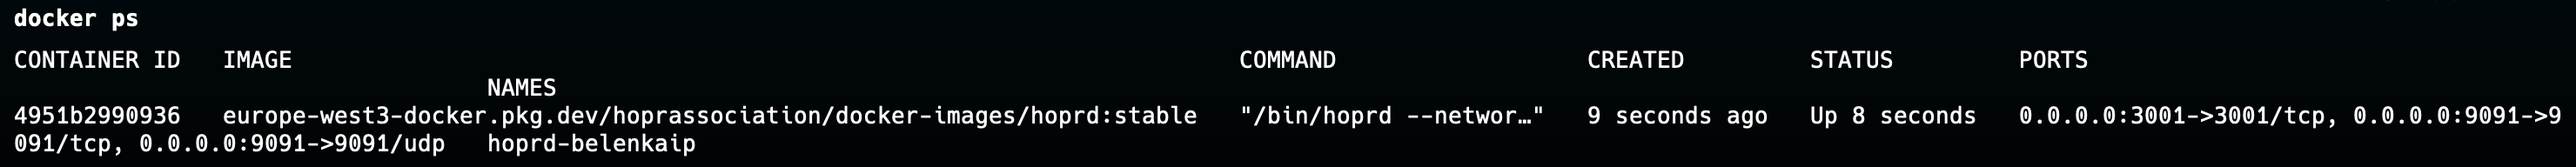
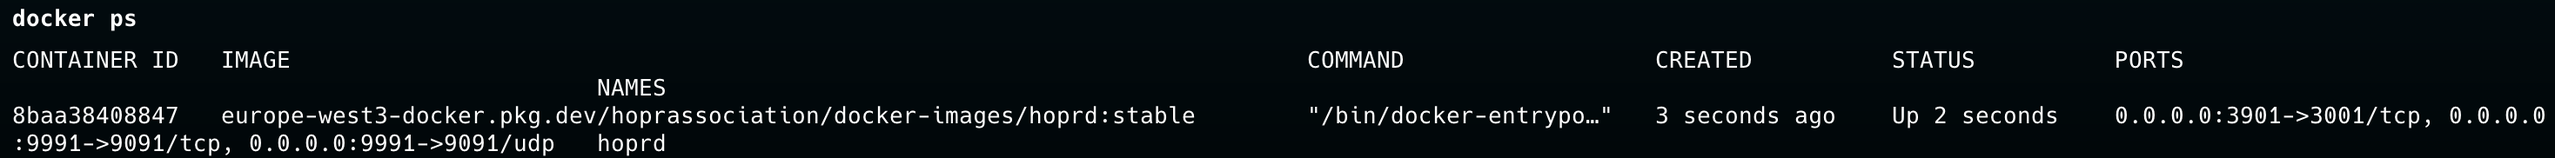
Beta version release

diff --git a/versioned_docs/version-v3.0.0/node/backup-restore-update.md b/versioned_docs/version-v3.0.0/node/backup-restore-update.md
@@ -271,7 +271,7 @@ europe-west3-docker.pkg.dev/hoprassociation/docker-images/hoprd:stable
 
 Note the container ID. For example:
 ```
-4951b2990936
+8baa38408847
 ```
 
 ![Docker ps](/img/node/docker-ps-node-update.png)
